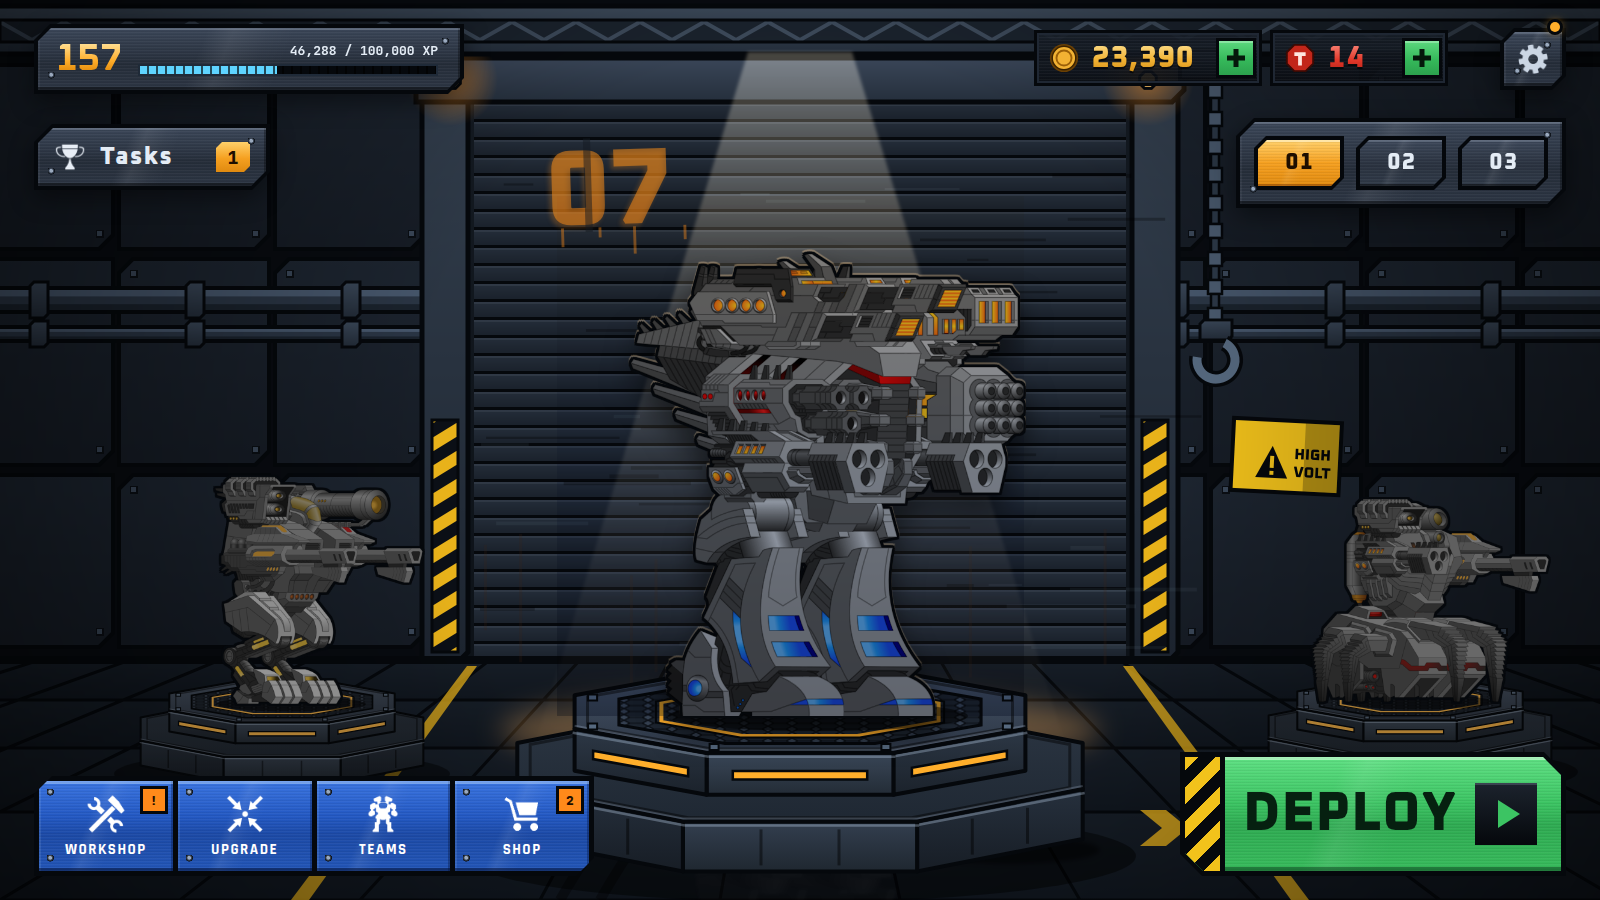
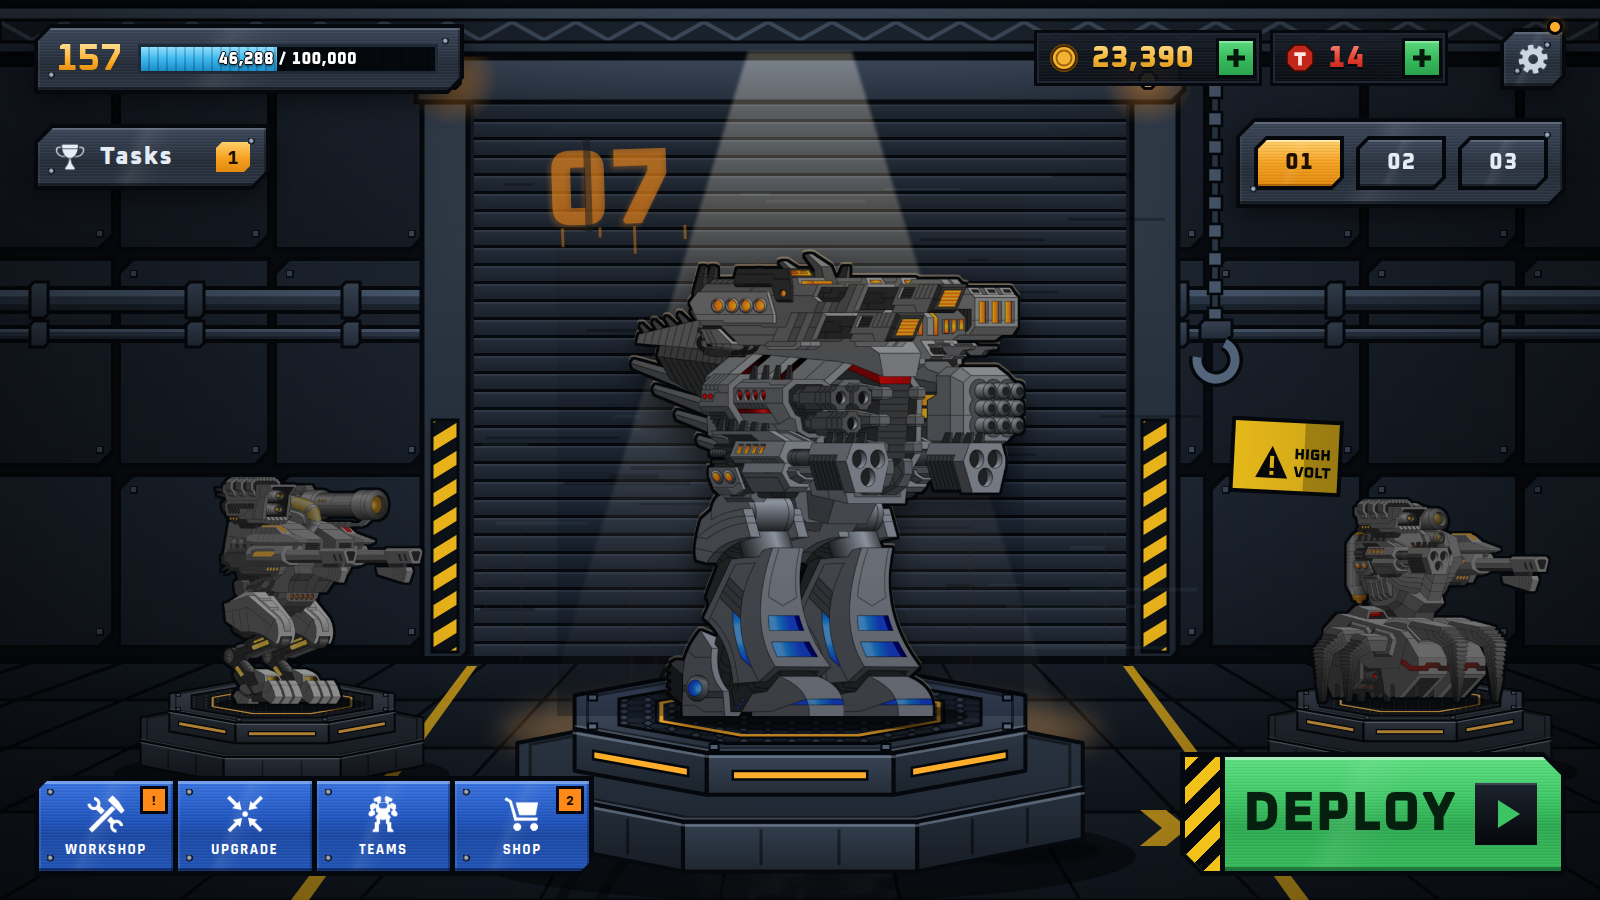
XP progress written inside the bar, like the original
Taller bar, centred outlined numbers, softer segment gaps behind the text.

Claude-Session: https://claude.ai/code/session_016EMeU7WbdybdkHaQ4QiAx5

Changed region(s): [[0.0625, 0.0311, 0.2812, 0.0933]]

diff --git a/ui/mocks/G-bay.html b/ui/mocks/G-bay.html
@@ -217,6 +217,12 @@ canvas{position:absolute;left:0;top:0;width:1600px;height:900px}
 .readout .plus{background:linear-gradient(180deg,#63dd84,#35b85a 55%,#2a9d4b)!important;box-shadow:inset 0 0 0 3px #05080c,inset 0 5px 0 rgba(220,255,230,.35)}
 .tasksBtn .cnt{background:linear-gradient(180deg,#ffd06a,#f5a020 55%,#e08a10)}
 .lv .n b{background:linear-gradient(180deg,#ffe29a,#ffae2b 55%,#d97e00);-webkit-background-clip:text;background-clip:text;color:transparent}
+
+.xpbar{height:30px!important;border-width:3px!important}
+.xpbar::after{opacity:.28}
+.xpbar i{background:linear-gradient(180deg,#8fe0ff,#3cb8f0 50%,#1b8cc8)!important}
+.xpbar span{position:absolute;inset:0;z-index:2;display:flex;align-items:center;justify-content:center;font:800 16px var(--f-head);color:#fff;letter-spacing:.05em;
+  text-shadow:0 1px 0 #05080c,1px 0 0 #05080c,-1px 0 0 #05080c,0 -1px 0 #05080c,0 2px 3px rgba(0,0,0,.7)}
 </style></head>
 <body>
 <div class="stage">
@@ -290,7 +296,7 @@ canvas{position:absolute;left:0;top:0;width:1600px;height:900px}
   <canvas id="fx" width="1600" height="900"></canvas>
 
   <!-- HUD -->
-  <div class="plate lv"><div class="in"><div class="n"><b>157</b></div><div class="xp"><div class="row"><span></span><span class="num">46,288 / 100,000 XP</span></div><div class="seg"><i style="width:46.3%"></i></div></div></div></div>
+  <div class="plate lv"><div class="in"><div class="n"><b>157</b></div><div class="xp"><div class="seg xpbar"><i style="width:46.3%"></i><span class="num">46,288 / 100,000</span></div></div></div></div>
   <div class="readout" style="left:1034px"><svg viewBox="0 0 34 34"><circle cx="17" cy="17" r="15" fill="#6a4004"/><circle cx="17" cy="17" r="12.5" fill="#f2b233" stroke="#3a2200" stroke-width="1.5"/><circle cx="17" cy="17" r="8" fill="none" stroke="#9a5f08" stroke-width="2"/></svg><b class="gold">23,390</b><div class="plus" aria-label="Add"></div></div>
   <div class="readout" style="left:1270px"><svg viewBox="0 0 34 34"><path d="M11 3h12l8 8v12l-8 8H11l-8-8V11z" fill="#c2261a" stroke="#3a0a04" stroke-width="2"/><path d="M11 11h12v4h-4v10h-4V15h-4z" fill="#ffe6df"/></svg><b class="tok" style="min-width:62px">14</b><div class="plus" aria-label="Add"></div></div>
   <div class="plate gear"><div class="in"><i class="mask" style="--i:url(assets/icons/interface_options.png)"></i></div><div class="dot" style="right:6px;top:-6px"></div></div>
